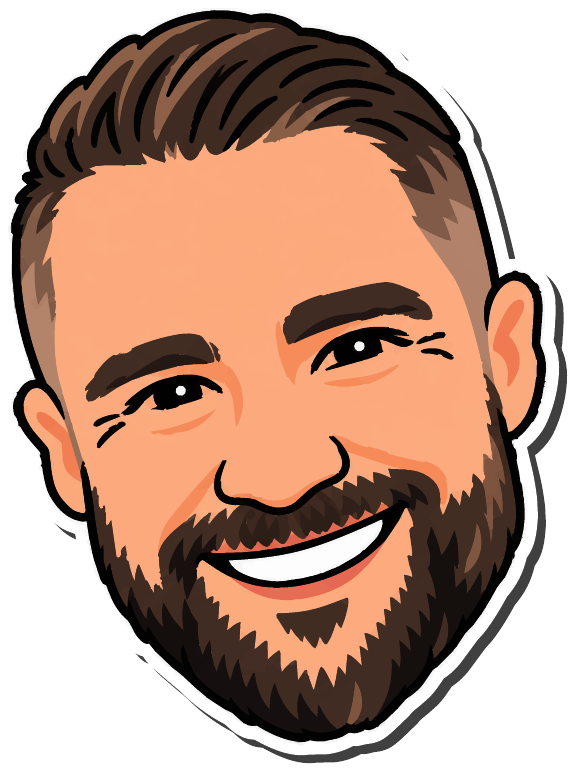
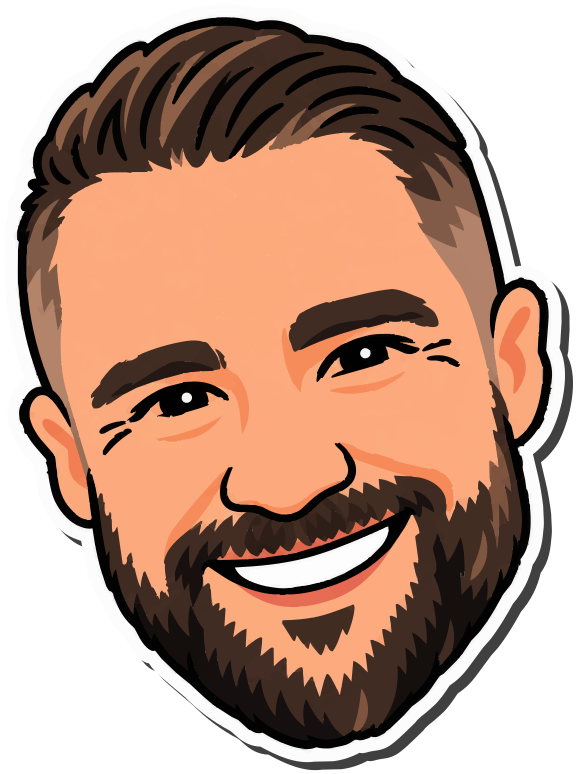
Restore the white outline on the game pieces
Kharisel flagged that the pieces lost their white outline and looked transparent.
Cause: my cut derived alpha by flooding the background, and a sticker's outline
is white like the artboard, so the flood ate most of it and left hard edges.

Heads are now cut from a true-alpha render. White-outline pixels equal the design
exactly for all four (40,989 / 28,884 / 18,880 / 13,689, up from 8,402 / 6,961 /
4,495 / 1,805) and the anti-aliased edges are back. Sizes barely moved so nothing
shifts on the board. Verified in the running game: all four load at full opacity,
no console errors.

Handoff now records the Oct 14 feedback, including the second-row layout spec for
the next phase.

diff --git a/js/config.js b/js/config.js
@@ -124,12 +124,14 @@ const KIT = {
   // their milestone cards are flipped"). joinsAt is the milestone INDEX that
   // brings that pawn on; null means present from the start.
   // widthFrac = the sprite's native width / the 3876px board render, so the
-  // sticker lands at its designed size.
+  // sticker lands at its designed size. The sprites are cut from a TRUE-alpha
+  // render (tools/extract-heads.py) so the white sticker outline is intact; the
+  // flood-fill cut of Oct 9 had eaten most of it (Kharisel, Oct 14).
   pawns: [
-    { img: "assets/v3/head-steph.png?v=1",   alt: "", widthFrac: 0.1837, joinsAt: null },
-    { img: "assets/v3/head-jesse.png?v=1",   alt: "", widthFrac: 0.1486, joinsAt: null },
-    { img: "assets/v3/head-wesley.png?v=1",  alt: "", widthFrac: 0.1326, joinsAt: 1 },
-    { img: "assets/v3/head-bennett.png?v=1", alt: "", widthFrac: 0.1148, joinsAt: 2 },
+    { img: "assets/v3/head-steph.png?v=2",   alt: "", widthFrac: 0.1834, joinsAt: null },
+    { img: "assets/v3/head-jesse.png?v=2",   alt: "", widthFrac: 0.1486, joinsAt: null },
+    { img: "assets/v3/head-wesley.png?v=2",  alt: "", widthFrac: 0.1326, joinsAt: 1 },
+    { img: "assets/v3/head-bennett.png?v=2", alt: "", widthFrac: 0.1156, joinsAt: 2 },
   ],
   // gap between neighbours as a fraction of the two heads either side of it
   pawnSpread: 0.41,

diff --git a/index.html b/index.html
@@ -108,7 +108,7 @@
   </section>
 
   <script src="js/vendor/gsap.min.js"></script>
-  <script src="js/config.js?v=26"></script>
+  <script src="js/config.js?v=27"></script>
   <script src="js/main.js?v=35"></script>
 </body>
 </html>

diff --git a/tools/extract-heads.py b/tools/extract-heads.py
@@ -1,0 +1,65 @@
+#!/usr/bin/env python3
+"""Cut the game-piece heads out of a TRUE-ALPHA render of the pieces artboard.
+
+    pdftocairo -f 1 -l 1 -png -transp -r 144 design.pdf pieces
+    python3 tools/extract-heads.py pieces-1.png out-dir name1,name2,name3,name4
+
+Why this exists: extract-pieces.py derives alpha by flooding the near-white
+background inward. A sticker's outline is white and so is the artboard, so the
+flood eats the outline wherever there is no drop shadow to stop it. Measured on
+the Oct 9 Stephanie heads it removed 75 to 90% of the white outline and left
+every edge hard (zero anti-aliased pixels). Kharisel flagged it: pieces should
+have a white outline and not look transparent.
+
+pdftocairo -transp renders the artboard with real alpha, so the outline, the
+anti-aliasing and the drop shadow all come through exactly as designed. Heads
+are left to right along the bottom row, below y=3000 at 144dpi. Cards are not
+cut here; their outlines are black, so the flood never had this problem.
+"""
+import os
+import sys
+
+from PIL import Image
+
+SRC, OUT = sys.argv[1], sys.argv[2]
+NAMES = sys.argv[3].split(",")
+ALPHA_MIN = 8      # alpha at or below this is background
+MIN_PX = 4000      # ignore specks
+HEAD_ROW_Y = 3000  # heads sit below the card rows
+STRIP_W = 0.6      # a component wider than this share of the artboard is the colour strip
+PAD = 3            # transparent border kept around each sprite
+
+os.makedirs(OUT, exist_ok=True)
+im = Image.open(SRC).convert("RGBA")
+W, H = im.size
+A = im.getchannel("A").load()
+
+seen = bytearray(W * H)
+comps = []
+for sy in range(HEAD_ROW_Y, H):
+    for sx in range(W):
+        i = sy * W + sx
+        if seen[i] or A[sx, sy] <= ALPHA_MIN:
+            continue
+        st = [i]; seen[i] = 1; n = 0
+        x0 = x1 = sx; y0 = y1 = sy
+        while st:
+            j = st.pop(); n += 1
+            a, b = j % W, j // W
+            x0 = min(x0, a); x1 = max(x1, a); y0 = min(y0, b); y1 = max(y1, b)
+            for dx, dy in ((1, 0), (-1, 0), (0, 1), (0, -1)):
+                nx, ny = a + dx, b + dy
+                if 0 <= nx < W and HEAD_ROW_Y <= ny < H and not seen[ny * W + nx] and A[nx, ny] > ALPHA_MIN:
+                    seen[ny * W + nx] = 1; st.append(ny * W + nx)
+        if n >= MIN_PX and (x1 - x0) < STRIP_W * W:
+            comps.append((x0, y0, x1, y1))
+
+comps.sort()
+if len(comps) != len(NAMES):
+    sys.exit(f"found {len(comps)} heads, expected {len(NAMES)}: {comps}")
+for name, (x0, y0, x1, y1) in zip(NAMES, comps):
+    x0, y0 = max(0, x0 - PAD), max(0, y0 - PAD)
+    x1, y1 = min(W - 1, x1 + PAD), min(H - 1, y1 + PAD)
+    sprite = im.crop((x0, y0, x1 + 1, y1 + 1))
+    sprite.save(os.path.join(OUT, f"head-{name}.png"))
+    print(f"head-{name}.png  {sprite.size[0]}x{sprite.size[1]}  widthFrac={sprite.size[0] / 3876:.4f}")

diff --git a/HANDOFF.md b/HANDOFF.md
@@ -33,6 +33,42 @@ Geometry was verified by measurement, not by eye. Do not re-derive it.
   that milestone is turned. Verified in-browser: 2 on the board at load, Wesley
   at milestone 1, Bennett at milestone 2.
 
+## Kharisel's Oct 14 feedback
+
+1. ~~All pieces need a white outline and must not look transparent.~~ **DONE.**
+   My Oct 9 flood-fill cut had removed 75 to 90% of each head's white outline
+   (the outline is white and so is the artboard) and left every edge hard.
+   Measured against a true-alpha render, white-outline px went 8,402 -> 40,989
+   (Steph), 6,961 -> 28,884 (Jesse), 4,495 -> 18,880 (Wesley), 1,805 -> 13,689
+   (Bennett), now exactly equal to the design. New `tools/extract-heads.py` cuts
+   heads from `pdftocairo -png -transp -r 144` output. Sizes barely moved, so
+   nothing shifts on the board. Cards were not touched: their outlines are black
+   so the flood never had this problem.
+2. **Wesley and Bennett: appear when Steph and Jesse have stopped on the card,
+   placed UNDER Steph and Jesse** so the group is not horizontally long and does
+   not cover the 3rd card or run off the artboard. **NOT DONE. This is Phase B and
+   it also resolves open item 1 (rest positions).** Spec:
+   - Two rows: Steph and Jesse on top, the boys beneath them, so the group is two
+     heads wide. At the old four-wide spread it was 0.50 of board width against a
+     0.20-wide card; it covered the "Double the Horsepower" title in the live game.
+   - Timing changes: today `revealJoiners(i)` fires in the turn's onComplete,
+     BEFORE the walk, so the boys travel with the adults. She wants them to
+     appear AFTER the adults have stopped on the card (walk-complete callback).
+     Check what a joiner does to `pawnBox()` and the camera box when it appears.
+   - Rest positions (`pawnPos` for milestones 1 to 3) need re-solving for the new
+     two-row footprint. Method that works: text zones as slot-rect fractions,
+     title (0.07,0.06,0.93,0.37) and caption (0.12,0.77,0.88,0.96), plus every
+     OTHER card's full rect, and the footprint must stay on the board. Last time
+     a solver passed those checks and still looked wrong, so check by screenshot.
+   - `pawnOffsets()` and `pawnBox()` in main.js currently lay heads in one row.
+3. **Unique URL like Jonny's.** Jonny's is `jonnyandkelly.pixeldreams.com`: a
+   `CNAME` file in the repo plus a DNS CNAME record to `details-pd.github.io`.
+   Stephanie's can match, for example `stephanieandjesse.pixeldreams.com`. Waheed
+   picks the name; whoever manages pixeldreams.com DNS adds the record; then add
+   the CNAME file. Not urgent: the github.io link works for review.
+4. **Headline wrap, DONE (Waheed):** "Endless adventures." stays on one line,
+   including on phones (width-capped font, checked at 320, 375, 414, 1280).
+
 ## Open
 
 1. **Pawn rest positions.** BLOCKING and it is a design call, not a bug.
